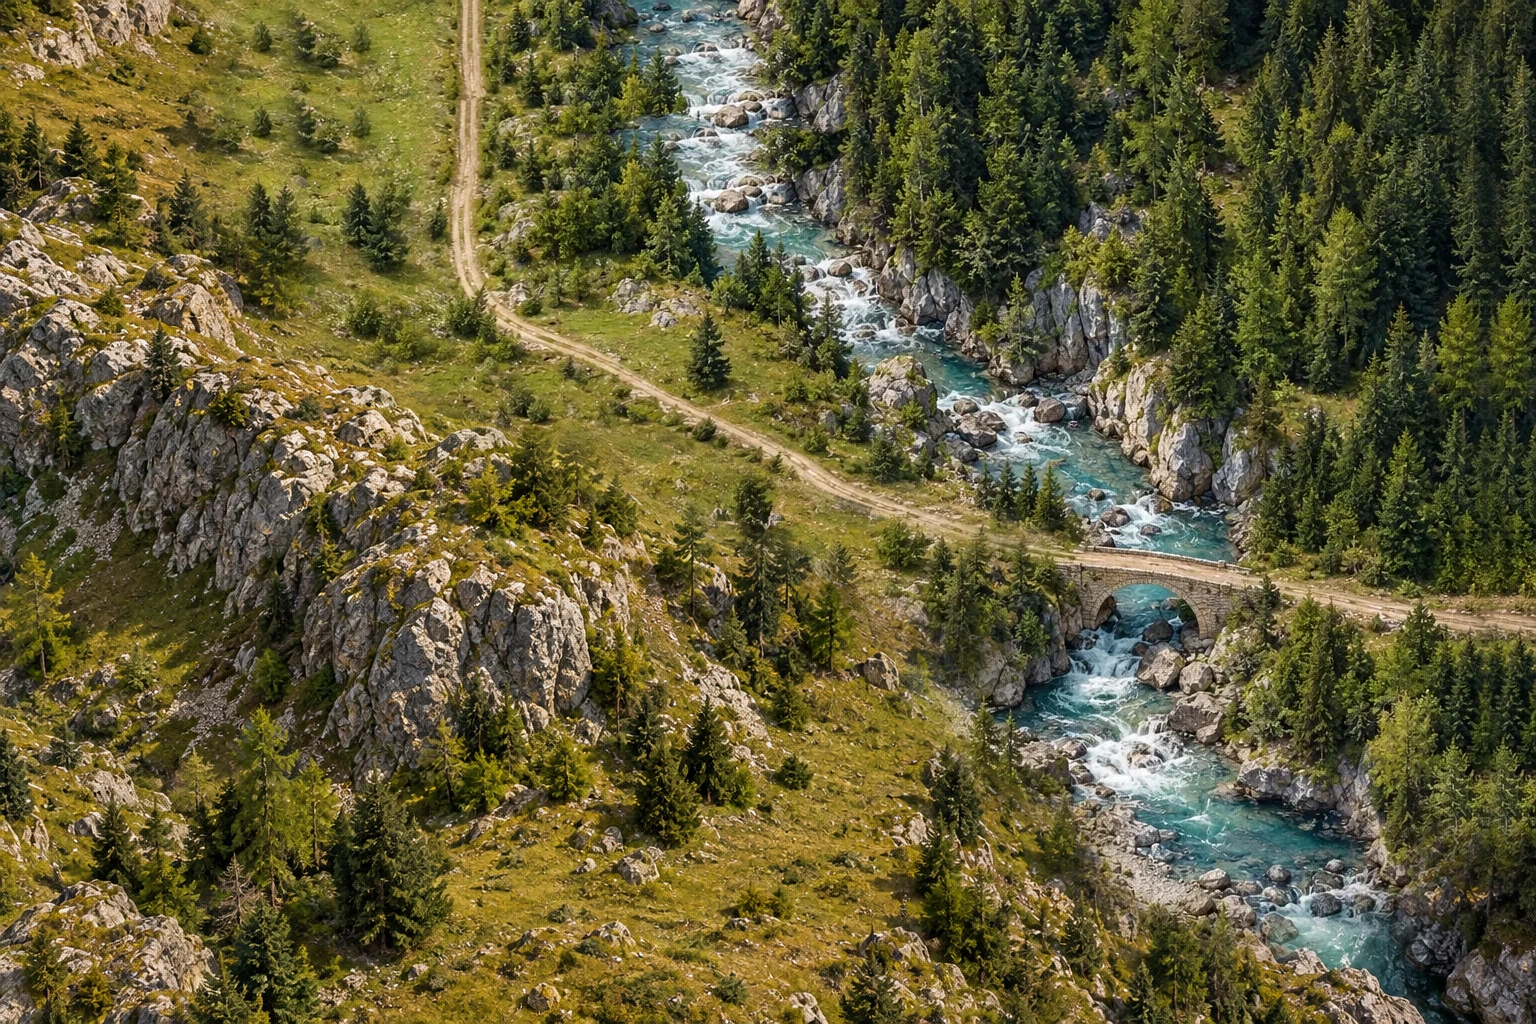
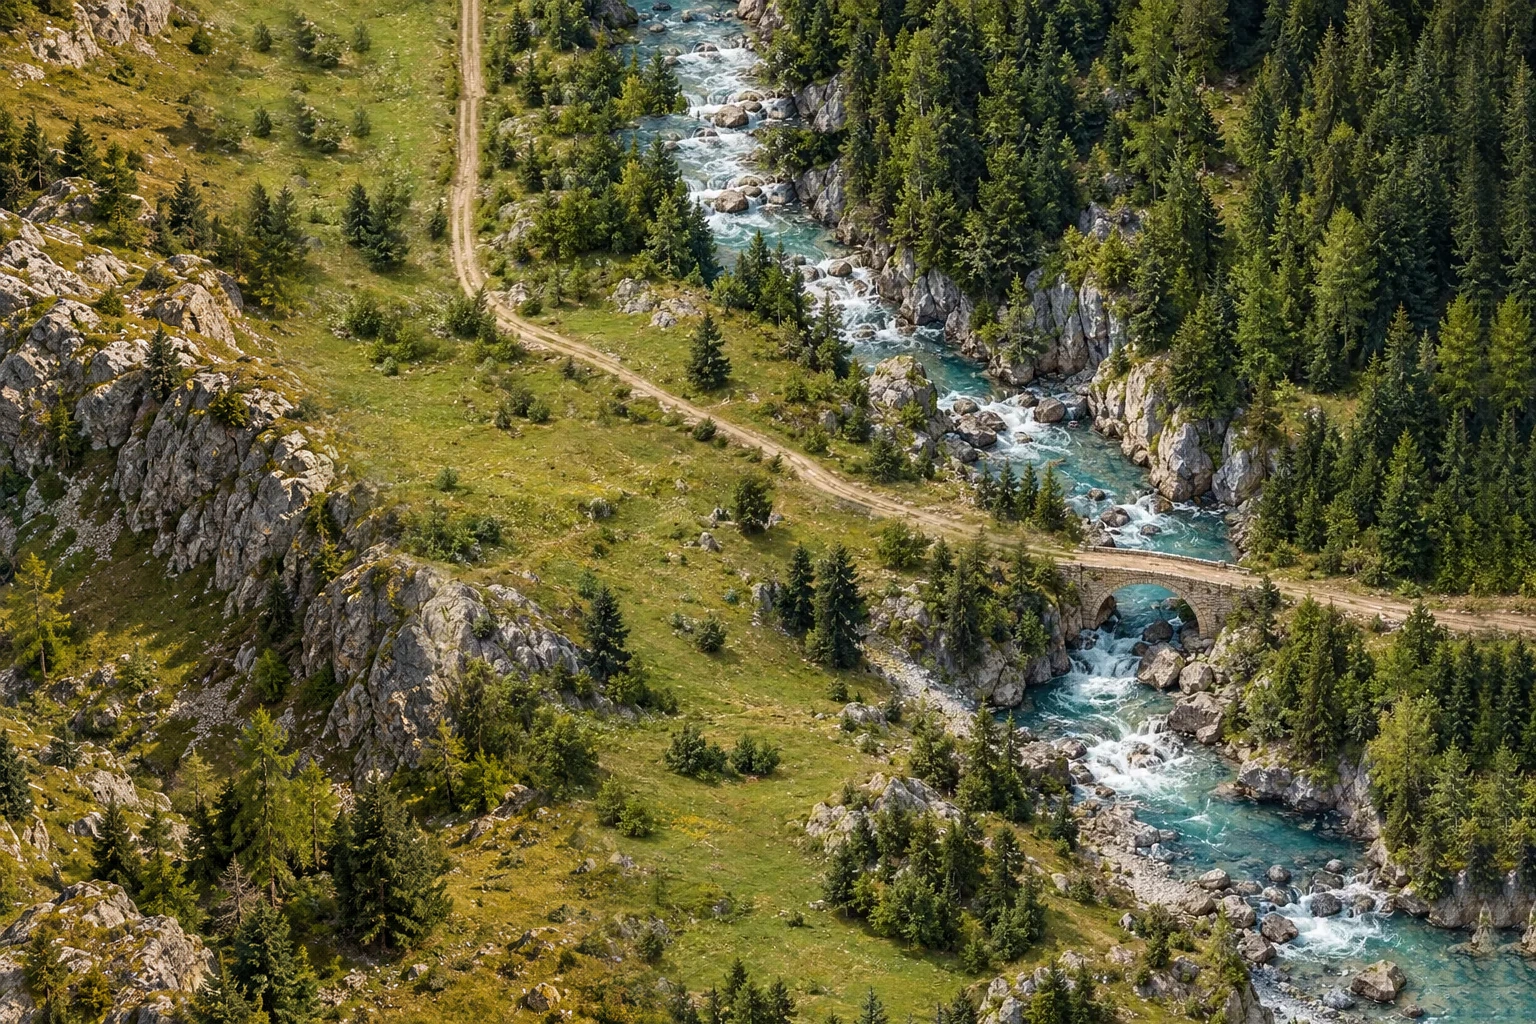
Bake SOUTH sloping photographic seam and real mobile review

Changed region(s): [[0.1875, 0.3438, 1.0, 1.0]]

diff --git a/art-reviews/v267-sloping-photo-join-review.md b/art-reviews/v267-sloping-photo-join-review.md
@@ -1,8 +1,8 @@
 # SOUTH terrain-aware photographic composition — UNAPPROVED
 
-This candidate uses two independent original fictional Alpine source photographs. A dynamically selected diagonal seam follows natural material transitions, avoiding a horizontal cut through forest. The entire physical cartway, bridge, river and immediate banks are native source pixels at their existing V123 coordinates; no global terrain warp, copied Matrei scenery, painted road or duplicated trees.
+This candidate uses two independent original fictional Alpine source photographs. A dynamically selected full-height diagonal seam follows natural material transitions, avoiding a horizontal cut through forest. The entire physical cartway, bridge, river and immediate banks are native source pixels at their existing V123 coordinates; no global terrain warp, copied Matrei scenery, painted road or duplicated trees.
 
-Pixels changed relative to the single-source SOUTH: 759535.
+Pixels changed relative to the single-source SOUTH: 431987.
 Review: ?southArt=slope. This is original fictional 1780–1880 game art, not verified historical topography. User approval NOT given. V121, V123, V94, sprites, saves and production untouched.
 
 Sources: dc97c82e9181eb1a78fb4e4d0f45ac5c47cb005136b6539b817e8d668c3b6029 / 46efdd3cfd7df0163330445f7841e3e35502a317c3780f80cfd4a18444901103
